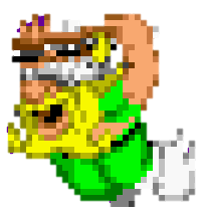
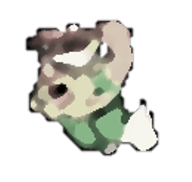
start work on mothership and player

diff --git a/dist/main.js b/dist/main.js
@@ -16,7 +16,7 @@
 /***/ (function(__unused_webpack_module, __webpack_exports__, __webpack_require__) {
 
 "use strict";
[2 lines of base64/hex data omitted]
 
 /***/ }),
 
@@ -27,7 +27,7 @@ eval("__webpack_require__.r(__webpack_exports__);\nfunction _classCallCheck(inst
 /***/ (function(__unused_webpack_module, __webpack_exports__, __webpack_require__) {
 
 "use strict";
[2 lines of base64/hex data omitted]
 
 /***/ }),
 
@@ -42,13 +42,24 @@ eval("__webpack_require__.r(__webpack_exports__);\n/* harmony import */ var _gam
 
 /***/ }),
 
+/***/ "./src/mothership.js":
+/*!***************************!*\
+  !*** ./src/mothership.js ***!
+  \***************************/
+/***/ (function(__unused_webpack_module, __webpack_exports__, __webpack_require__) {
+
+"use strict";
[1 lines of base64/hex data omitted]
+
+/***/ }),
+
 /***/ "./src/obstacles.js":
 /*!**************************!*\
   !*** ./src/obstacles.js ***!
   \**************************/
 /***/ (function() {
 
[2 lines of base64/hex data omitted]
 
 /***/ }),
 
@@ -59,7 +70,7 @@ eval("// const CONSTANTS = {\n//     ENEMY_HEIGHT = 10,\n//     ENEMY_WIDTH = 30
 /***/ (function(__unused_webpack_module, __webpack_exports__, __webpack_require__) {
 
 "use strict";
[2 lines of base64/hex data omitted]
 
 /***/ }),
 

diff --git a/src/game.js b/src/game.js
@@ -1,15 +1,18 @@
 import Player from "./player";
 import Obstacles from "./obstacles";
 import Background from "./background";
-
+import Mothership from "./mothership";
 
 class Game {
     constructor(canvas) {
         this.ctx = canvas.getContext("2d");
         this.dimensions = { width: canvas.width, height: canvas.height };
-        this.background = new Background(this.dimensions);
-        this.obstacles = []
+        this.background = new Background(this.dimensions, this.ctx);
+        this.mothership = new Mothership(this.ctx)
+        // this.obstacles = []
+        this.player = new Player(this.ctx)
         // this.recieveKeys();
+        
         this.restart();
     }
 
@@ -23,6 +26,7 @@ class Game {
         // this.player = new Player();
 
         this.animate();
+        // this.scroll()
     }
 
     // recieveKeys(e){
@@ -39,8 +43,9 @@ class Game {
     // }
 
     animate(){
-        this.background.animate(this.ctx)
-        // this.player.animate(this.ctx)
+        this.background.animate()
+        this.mothership.animate()
+        this.player.animate()
         // this.obstacles.animate(this.ctx)
         // this.drawAltitude()
         // if (this.gameOver()) {
@@ -48,21 +53,21 @@ class Game {
         // }
     }
 
-    win(){
+    // win(){
     
-    }
-    lose(){
+    // }
+    // lose(){
 
-    }
+    // }
 
-    drawAltitude(){
-        this.ctx.font = "bold 20pt serif";
-        this.ctx.fillStyle = "rgba(0, 0, 0, 0.2)";
-        this.ctx.fillText(this.score, 550, 10);
-        this.ctx.strokeStyle = "black";
-        this.ctx.lineWidth = 2;
+    // drawAltitude(){
+    //     this.ctx.font = "bold 20pt serif";
+    //     this.ctx.fillStyle = "rgba(0, 0, 0, 0.2)";
+    //     this.ctx.fillText(this.score, 550, 10);
+    //     this.ctx.strokeStyle = "black";
+    //     this.ctx.lineWidth = 2;
 
-    }
+    // }
     
 }
 

diff --git a/src/background.js b/src/background.js
@@ -1,30 +1,45 @@
-// const BKG = document.getElementById("bkg")
+import Game from "./game";
+
 const BKG = new Image()
 BKG.src = "images/background.png"
 
 
 class Background {
-    constructor(dimensions) {
+    constructor(dimensions, ctx) {
+        this.ctx = ctx
         this.speed = 1;
         this.width = dimensions.width
         this.height = dimensions.height
-
-        
-
+        this.y = 0
+        this.gameWon = false
     }
 
-    animate(ctx){
-
-        // const bkg = document.getElementById("bkg")
-        // console.log(bkg)
-        // ctx.drawImage(bkg, 0, 0, this.width, this.height);
-        // console.log(ctx)
-
+    animate(){
         BKG.addEventListener('load', e => {
-            ctx.drawImage(BKG, 0, 0, 600, 1771);
+            this.ctx.drawImage(BKG, 0, 0, 600, 1771);
+    
+            // this.scroll(this.ctx)
+
+ 
         });
+
     }
-}
+
+    scroll(){
+        console.log('SCROLL')
+        this.ctx.clearRect(0, 0, 600, 400)
+        this.ctx.drawImage(BKG, 0, this.y, 1200, 4000, 0, 0, 600, 1771);
+        this.y += this.speed
+        if (this.y >= 2400) {
+            return this.gameWon = true
+        } else { 
+            window.requestAnimationFrame(this.scroll.bind(this))
+        }
+        
+    }
+ 
+
+}   
 
 
 

diff --git a/index.html b/index.html
@@ -11,16 +11,17 @@
     <link href="https://fonts.googleapis.com/css2?family=Ribeye+Marrow&display=swap" rel="stylesheet">
     <link rel="stylesheet" href="./dist/main.css" />
     <script src="./dist/main.js"></script>
-    <title>Oleg's Escape</title>
+    <title>Olaf's Escape</title>
 
 </head>
 
 <body>
+    
     <div class="header">
-        <h1>Oleg's Escape</h1>
+        <h1>Olaf's Escape</h1>
         </br>
 
-        <p>Based on a beloved character from the Blizzard Classic, The Lost Vikings, this game follows Oleg, a
+        <p>Based on a beloved character from the Blizzard Classic, The Lost Vikings, this game follows Olaf, a
             shield-bearing Viking, who
             recently escaped imprisonment from aliens on their spaceship. He is free of their custody but is still on
             their ship! He
@@ -28,6 +29,8 @@
             obstacles on
             his way down.</p>
     </div>
+
+ <!-- <img id="sidescroll" src="images/vikinglines.jpg"></img> -->
 
     <div>
         <canvas id="game-canvas" width="600" height="400"></canvas>

diff --git a/src/player.js b/src/player.js
@@ -1,20 +1,30 @@
+let OLAF = new Image()
+OLAF.src = "images/gliding_left.png"
+
 class Player {
-    constructor(){
-        this.x = 150
-        this.y = 150
-        this.vy = 0;
-        this.width = 30
-        this.height = 40
+    constructor(ctx){
+        this.ctx = ctx
+        this.x = 400
+        this.y = 100
+        this.velo = 0;
+        this.width = 80;
+        this.height = 80;
         this.speed = 1;
         
     }
 
     
-
-    draw(){
-        ctx.fillStyle = 'red'
-        ctx.fillRect(this.x, this.y, this.width, this.height)
+    animate(){
+        addEventListener('load', e => {
+            this.ctx.drawImage(OLAF, this.x, this.y, this.width, this.height);
+        });
+        // this.drawPlayer()
     }
+    // drawPlayer(){
+    //     this.ctx.fillStyle = 'red'
+    //     this.ctx.fillRect(60, 60, 200, 200)
+    //     // this.ctx.fillRect(this.x, this.y, this.width, this.height)
+    // }
 }
 
 export default Player;

diff --git a/src/mothership.js b/src/mothership.js
@@ -1,0 +1,19 @@
+const MSHIP = new Image()
+MSHIP.src = "images/mothership.png"
+
+
+export default class Mothership {
+    constructor(ctx){
+        this.ctx = ctx
+        this.y = -70
+        this.width = 350
+        this.height = 350
+    }
+
+    animate() {
+        addEventListener('load', e => {
+            this.ctx.drawImage(MSHIP, 400, this.y, this.width, this.height);
+        });
+        // this.drawPlayer()
+    }
+}

diff --git a/dist/main.css b/dist/main.css
@@ -3,6 +3,10 @@
   \*************************************************************************************************************************************/
 body {
   background-color: whitesmoke;
+  background-image: url("/images/yggdrasil.png");
+  background-repeat: no-repeat;
+  background-position-x: center;
+  background-position-y: center;
   font-family: "Comfortaa", cursive;
   font-size: 13px;
 }

diff --git a/src/index.scss b/src/index.scss
@@ -1,5 +1,9 @@
 body {
     background-color: whitesmoke;
+    background-image: url("/images/yggdrasil.png");
+    background-repeat:no-repeat;
+    background-position-x: center;
+    background-position-y: center;
     font-family: 'Comfortaa', cursive;
     font-size: 13px;
 }
@@ -19,6 +23,8 @@ h1 {
     margin-right: auto;
 
 }
+
+
 
 #game-canvas { 
     padding: 15px;

diff --git a/src/obstacles.js b/src/obstacles.js
@@ -4,6 +4,8 @@
 
 // };
 
+
+
 // export default class Obstacles {
 //     constructor() {
 
@@ -23,3 +25,4 @@
 //             shipImg.src = "images/enemy_ship_right.png"
 //         });
 // }
+
